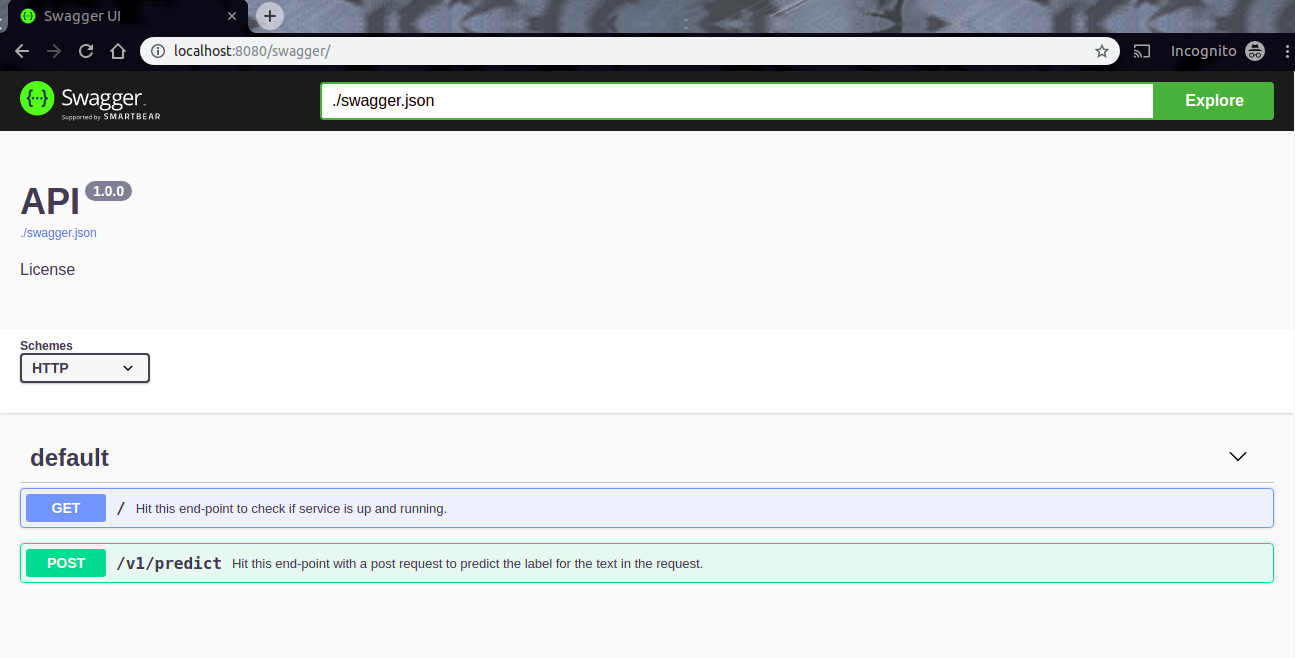
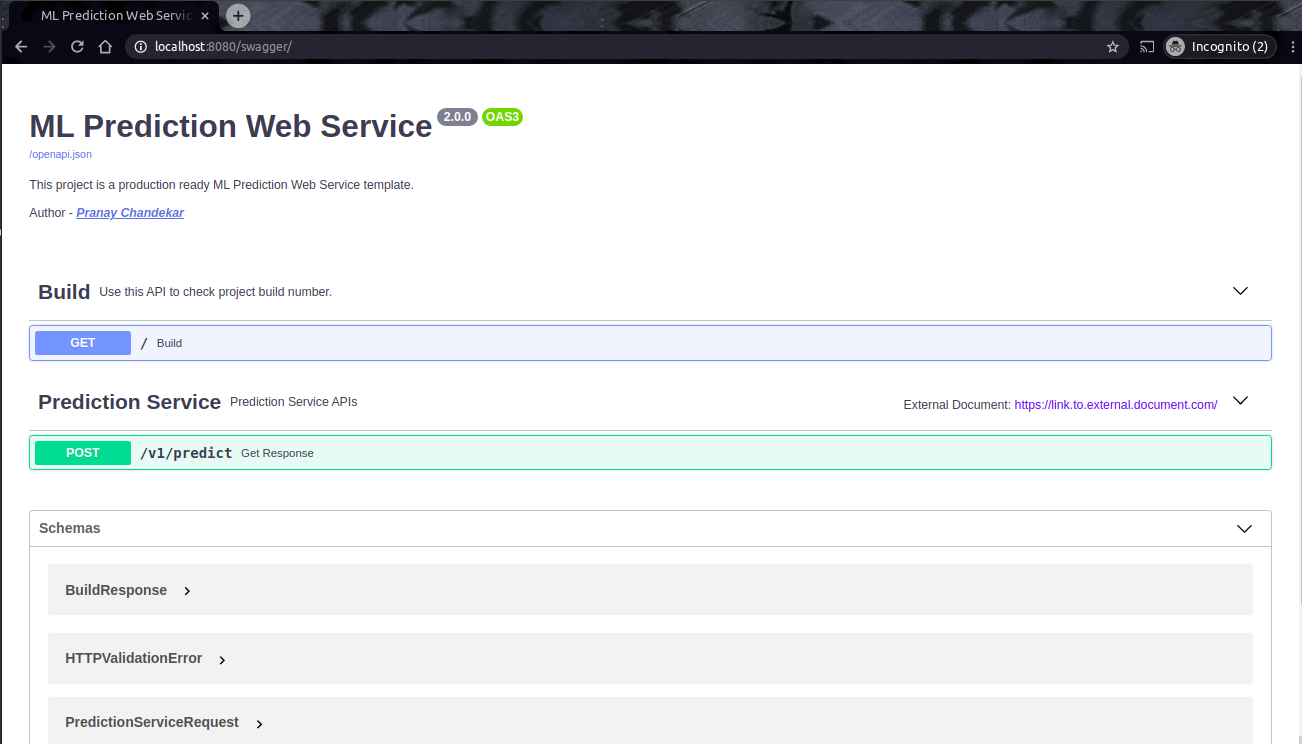
updated the documentation

diff --git a/app.py b/app.py
@@ -31,8 +31,8 @@ tags_metadata = [
 app = FastAPI(
     title="ML Prediction Web Service",
     description="This project is a production ready ML Prediction Web Service template. "
-                "<br /><br />"
-                "Author - [***Pranay Chandekar***](https://www.linkedin.com/in/pranaychandekar/)",
+    "<br /><br />"
+    "Author - [***Pranay Chandekar***](https://www.linkedin.com/in/pranaychandekar/)",
     version="2.0.0",
     openapi_tags=tags_metadata,
     docs_url="/swagger/",

diff --git a/README.md b/README.md
@@ -1,125 +1,117 @@
-
-
-  
 # Web Service to host an ML Model for Prediction. 
-A simple python web service to host a machine learning model for prediction as a REST API.    
-
-<p align="center">        
-  <img src="/docs/images/mpws-00.jpg" alt="RESTful Web Service">        
-</p>  
-
-The container trains a simple [text classifier](https://fasttext.cc/docs/en/supervised-tutorial.html) and hosts it for prediction as a web service written in [Sanic Framework](https://sanic.readthedocs.io/en/latest/). The data for model training is included in the project.     
-
-
->*For more details on customizing this project or using this as a template please follow [this article](https://medium.com/analytics-vidhya/ml-prediction-as-a-restful-web-service-9fa33d01566f).*
-    
----    
- ### Pre-requisites    
-    
-1. System should have [docker engine](https://docs.docker.com/install/) installed.    
->**Note**: I developed and tested this on Ubuntu-16.04.    
- ---    
- ### Hosting the web service    
-    
-1. Build the docker image     
-```bash 
-docker build --network=host -t ml-prediction-web-service:v1 .
-``` 
-
-2. Check the image     
-```bash 
-docker images  
-``` 
-<p align="center">        
-  <img src="/docs/images/mpws-01.png" alt="Docker Images">        
-</p>        
+A simple python web service to host a machine learning model for prediction as a REST API.      
   
-3. Run the container    
-```bash
+<p align="center">          
+  <img src="/docs/images/mpws-00.jpg" alt="RESTful Web Service">          
+</p>    
+  
+The container trains a simple [text classifier](https://fasttext.cc/docs/en/supervised-tutorial.html) and hosts it for prediction as a web service using [FastAPI](https://fastapi.tiangolo.com/). The data for model training is included in the project.       
+  
+  
+>*For more details on customizing this project or using this as a template please follow [this article](https://medium.com/analytics-vidhya/ml-prediction-as-a-restful-web-service-9fa33d01566f).*  
+  ---      
+ ### Pre-requisites      
+ 1. System should have [docker engine](https://docs.docker.com/install/) installed.      
+>**Note**: I developed and tested this on Ubuntu-16.04.      
+ ---      
+ ### Hosting the web service      
+ 1. Build the docker image       
+```bash 
+docker build --network=host -t ml-prediction-web-service:v1 .  
+```   
+2. Check the image       
+```bash 
+docker images 
+``` 
+<p align="center">          
+  <img src="/docs/images/mpws-01.png" alt="Docker Images">          
+</p>          
+    
+3. Run the container      
+```bash  
 docker run -d --net=host --name=ml-prediction-web-service ml-prediction-web-service:v1
-```  
-  
- 4. Check whether the container is up     
+```    
+    
+4. Check whether the container is up       
 ```bash 
-docker ps  
+docker ps 
 ``` 
-<p align="center">        
-  <img src="/docs/images/mpws-02.png" alt="Running Containers">        
-</p>        
-    
-    
+<p align="center">          
+  <img src="/docs/images/mpws-02.png" alt="Running Containers">          
+</p>          
+      
+      
 >When we run the container two scripts are initiated: 
 >1. `train.py` which trains the model to be hosted. 
->2. `prediction.py` which hosts the model as a web service.    
- ---    
- ### API Usage 
- The web services includes the [sanic-openapi](https://github.com/huge-success/sanic-openapi) integration. Thus, we can directly use the swagger portal from web browser to use the API. To open the swagger portal go to your browser and enter `http://localhost:8080/swagger/`. This will open the swagger portal only if the service is hosted properly.    
-<p align="center">        
-  <img src="/docs/images/mpws-03.png" alt="Swagger Portal">        
-</p>        
-    
-To check whether service is up:    
-    
- 1. Click on the `GET` bar.     
-    
- 2. Click on `Try it out` <p align="center">        
-  <img src="/docs/images/mpws-04.png" alt="Try It Out">        
-</p>       
-    
- 3. Click on `Execute` <p align="center">        
-  <img src="/docs/images/mpws-05.png" alt="Execute">        
-</p>       
-    
- 4. If you see the following screen then your service is up.    
-<p align="center">        
-  <img src="/docs/images/mpws-06.png" alt="Service Up">        
-</p>        
-    
-To predict the label of the text:    
-    
- 1. Click on the `POST` bar.     
-    
- 2. Click on `Try it out` <p align="center">        
-  <img src="/docs/images/mpws-07.png" alt="Try It Out">        
-</p>       
-    
- 3. In `Edit Value`, paste the following json    
-```json
-{    
-	"source": "swagger",    
-	"text": "Why should I not put knives in dishwasher?"
-}
-``` 
-<p align="center">        
-  <img src="/docs/images/mpws-08.png" alt="Edit Value">        
-</p>      
-    
- 4. Click on `Execute`    
-    
-5. We should see a response similar to the following:    
-<p align="center">        
-  <img src="/docs/images/mpws-09.png" alt="Prediction Response">        
-</p>        
-    
----    
- ### Logs checking 
- To check the the web service logs we need to get inside the running container. To do so execute the following command:    
-```bash
+>2. `app.py` which hosts the model as a web service.      
+ ---      
+ ### API Usage   
+ The web services includes the openapi integration. Thus, we can directly use the swagger portal from web browser to use the API. To open the swagger portal go to your browser and enter `http://localhost:8080/swagger/`. This will open the swagger portal only if the service is hosted properly.      
+<p align="center">          
+  <img src="/docs/images/mpws-03.png" alt="Swagger Portal">          
+</p>          
+      
+To check whether service is up:      
+      
+ 1. Click on the `GET` bar.       
+      
+ 2. Click on `Try it out` <p align="center">          
+  <img src="/docs/images/mpws-04.png" alt="Try It Out">          
+</p>         
+      
+ 3. Click on `Execute` <p align="center">          
+  <img src="/docs/images/mpws-05.png" alt="Execute">          
+</p>         
+      
+ 4. If you see the following screen then your service is up.      
+<p align="center">          
+  <img src="/docs/images/mpws-06.png" alt="Service Up">          
+</p>          
+      
+To predict the label of the text:      
+      
+ 1. Click on the `POST` bar.       
+      
+ 2. Click on `Try it out` 
+ <p align="center">          
+  <img src="/docs/images/mpws-07.png" alt="Try It Out">          
+</p>         
+      
+ 3. Click on `Execute`      
+ 4. We should see a response similar to the following:      
+<p align="center">          
+  <img src="/docs/images/mpws-09.png" alt="Prediction Response">          
+</p>          
+      
+---      
+ ### Logs checking   
+ To check the the web service logs we need to get inside the running container. To do so execute the following command:      
+```bash  
 docker exec -it ml-prediction-web-service bash
 ``` 
-Now we are inside the container.    
-    
-The logs are available in the logs folder in the files `ml-prediction-web-service.log` and `ml-prediction-web-service.err`.    
-    
-<p align="center">        
-  <img src="/docs/images/mpws-10.png" alt="Inside container">        
-</p>        
-    
----    
- ### Stopping the web service 
- Run the following command to stop the container:    
-```bash
+Now we are inside the container.      
+      
+The logs are available in the logs folder in the files `ml-prediction-web-service.log` and `ml-prediction-web-service.err`.      
+      
+<p align="center">          
+  <img src="/docs/images/mpws-10.png" alt="Inside container">          
+</p>          
+      
+---      
+ ### Stopping the web service   
+ Run the following command to stop the container:      
+```bash  
 docker stop ml-prediction-web-service
-```
+```  
+---      
+ ### API Documentation with [ReDoc](https://github.com/Redocly/redoc)   
+ <p align="center">          
+  <img src="/docs/images/mpws-11.png" alt="ReDoc Top">          
+</p>
+
+<p align="center">          
+  <img src="/docs/images/mpws-12.png" alt="ReDoc API Details">          
+</p>
+ 
 --- 
 **Author**: [Pranay Chandekar](https://www.linkedin.com/in/pranaychandekar/)
